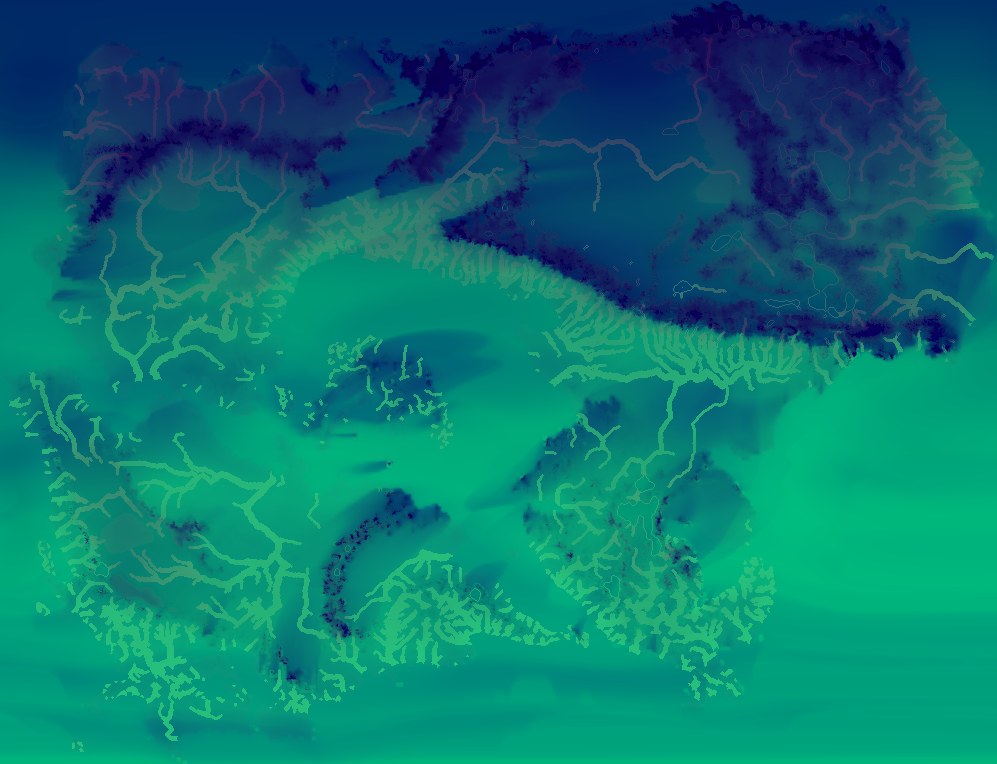
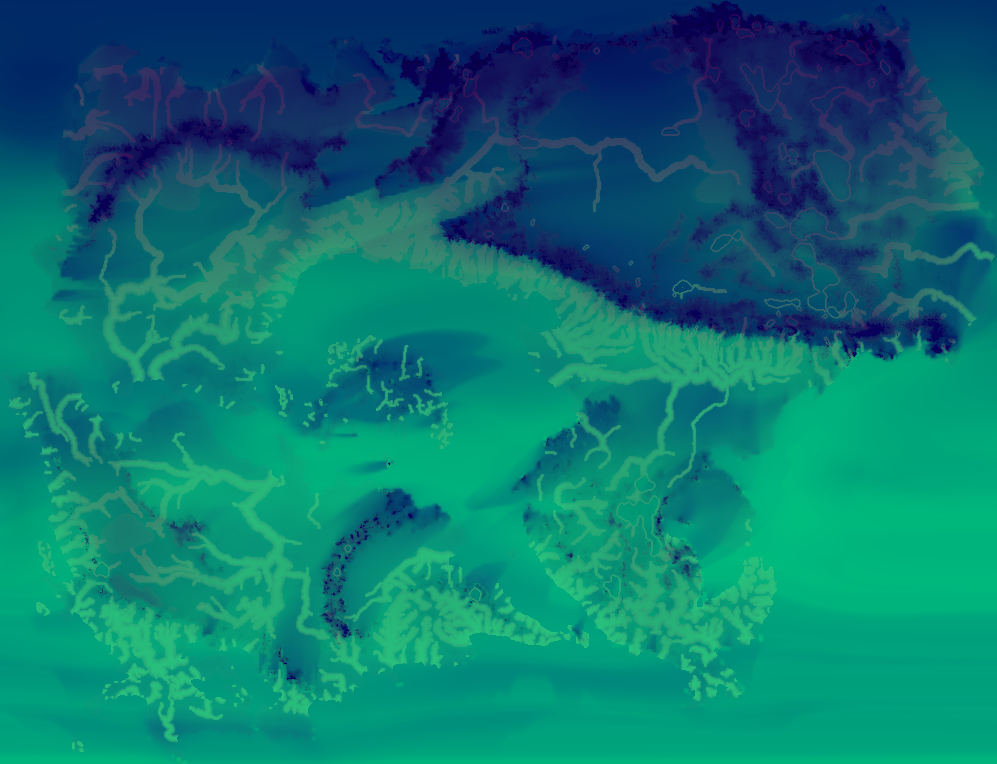
Yaşanabilirlik: nehir çevresi iki seçenekli (geniş yumuşak varsayılan, nehrin yanı)
Su erişimi ağırlığı debiye göre 2.5/5/8 hücrede kosinüsle söner (varsayılan)
ya da nehrin hemen yanında tam etkili (eski davranış). İki ayrı PNG ve veri
PNG'si, uygulamada radyo ayarı, legend payları seçeneğe göre. sw.js v12,
test seçeneğin renkleri gerçekten değiştirdiğini doğrular (31/31).

Claude-Session: https://claude.ai/code/session_01X56oZFTqgptLAFmNm82jib

diff --git a/app.js b/app.js
@@ -101,7 +101,7 @@ function bildir(msg, ms=3200){ const t=$("#bildirim"); t.textContent=msg; t.hidd
 
 const AYAR_ANAHTAR = "dunyam-ayar";
 const ayar = Object.assign({kabartma:true, kabartmaKaynak:"bir", piksel:false, izgara:true, bant:false,
-  dolZemin:"sst", parcacik:false, sicMod:"ort", deniz:true, su:true, suKol:"ana", araziMod:"yukseklik"},
+  dolZemin:"sst", parcacik:false, sicMod:"ort", deniz:true, su:true, suKol:"ana", araziMod:"yukseklik", yasamKiyi:"genis"},
   (()=>{ try{ return JSON.parse(localStorage.getItem(AYAR_ANAHTAR)) || {}; }catch(_){ return {}; } })());
 // Eylul 2026: birlesik kabartma varsayilan oldu. Eski surumde "editor"
 // kaydedilmis telefonlar bir kez birlesige gecer; sonra secim kullanicinin.
@@ -1061,21 +1061,24 @@ function baslat(J, resimler){
   const YJ = resimler.yasamJ, YS = YJ && resimler.yasam ? resimler.yasam : null, YV = resimler.yasamVeri;
   const ysCv = $("#yasam"), ysC = ysCv.getContext("2d");
   let YK = null;     // {tuval, veri (okuma tuvali)}
+  // nehir çevresi seçeneği: geniş ve yumuşak (varsayılan) ya da nehrin hemen yanı
+  const yasamRes = () => ayar.yasamKiyi === "dar" && resimler.yasamDar && resimler.yasamDarVeri ? [resimler.yasamDar, resimler.yasamDarVeri] : [YS, YV];
   function yasamKur(){
     if(YK || !YS) return YK;
-    const w = YS.naturalWidth, h = YS.naturalHeight, K = YJ.kesit, cv = document.createElement("canvas"); cv.width = w; cv.height = h;
-    const c = cv.getContext("2d"); c.drawImage(YS, 0, 0);
+    const [Y, V] = yasamRes();
+    const w = Y.naturalWidth, h = Y.naturalHeight, K = YJ.kesit, cv = document.createElement("canvas"); cv.width = w; cv.height = h;
+    const c = cv.getContext("2d"); c.drawImage(Y, 0, 0);
     const kab = ayar.kabartma ? (KAB[ayar.kabartmaKaynak] || KAB.bir || KAB.editor) : null;
     if(kab){
       const kx = w/(K[2]-K[0]), ky = h/(K[3]-K[1]);
       c.globalCompositeOperation = "multiply"; c.imageSmoothingEnabled = true; c.imageSmoothingQuality = "high";
       c.drawImage(kab, (B[0]-K[0])*kx, (K[3]-B[3])*ky, (B[2]-B[0])*kx, (B[3]-B[1])*ky);
       c.globalCompositeOperation = "lighter"; c.drawImage(cv, 0, 0);
-      c.globalCompositeOperation = "destination-in"; c.drawImage(YS, 0, 0);
+      c.globalCompositeOperation = "destination-in"; c.drawImage(Y, 0, 0);
       c.globalCompositeOperation = "source-over"; }
     let veri = null;
-    if(YV){ const v = document.createElement("canvas"); v.width = YV.naturalWidth; v.height = YV.naturalHeight;
-      veri = v.getContext("2d", {willReadFrequently:true}); veri.drawImage(YV, 0, 0); }
+    if(V){ const v = document.createElement("canvas"); v.width = V.naturalWidth; v.height = V.naturalHeight;
+      veri = v.getContext("2d", {willReadFrequently:true}); veri.drawImage(V, 0, 0); }
     return YK = {tuval: cv, veri};
   }
   const yasamModu = () => !!YS && katman === "arazi" && ayar.araziMod === "yasam";
@@ -1099,7 +1102,7 @@ function baslat(J, resimler){
   }
   function yasamSatiri(lon, lat){
     if(!yasamModu() || !yasamKur() || !YK.veri) return "";
-    const K = YJ.kesit, W2 = YV.naturalWidth, H2 = YV.naturalHeight;
+    const K = YJ.kesit, V = yasamRes()[1], W2 = V.naturalWidth, H2 = V.naturalHeight;
     const x = Math.floor((lon-K[0])/(K[2]-K[0])*W2), y = Math.floor((K[3]-lat)/(K[3]-K[1])*H2);
     if(x < 0 || y < 0 || x >= W2 || y >= H2) return "";
     const p = YK.veri.getImageData(x, y, 1, 1).data, c = YJ.siniflar[p[0] & 15]; if(!c) return "";
@@ -1403,8 +1406,12 @@ function baslat(J, resimler){
         `<span><i style="background:rgb(${b.renk.join(",")})"></i>${b.ad.replace(/ \(.*\)/, "")} <b>%${Math.round(b.pay*100)}</b></span>`).join("") + `</div>`;
       return; }
     if(katman==="arazi" && YS && ayar.araziMod==="yasam"){
-      el.innerHTML = araziSec + `<div class="bk-not">` + Object.entries(YJ.siniflar).filter(([, c]) => c.pay >= 0.005).map(([, c]) =>
-        `<span><i style="background:rgb(${c.renk.join(",")})"></i>${c.ad} <b>%${Math.round(c.pay*100)}</b></span>`).join("") + `</div>`;
+      const dar = ayar.yasamKiyi === "dar" && resimler.yasamDar, pk = dar ? "pay_dar" : "pay";
+      const kiyiSec = resimler.yasamDar ? `<div class="dol-ust"><div class="secim kucuk" role="radiogroup" aria-label="Nehir çevresi">`
+        + [["genis","Geniş, yumuşak"],["dar","Nehrin yanı"]].map(([k, t]) =>
+          `<button role="radio" data-yasamkiyi="${k}" aria-checked="${dar ? k==="dar" : k==="genis"}">${t}</button>`).join("") + `</div></div>` : "";
+      el.innerHTML = araziSec + kiyiSec + `<div class="bk-not">` + Object.entries(YJ.siniflar).filter(([, c]) => c[pk] >= 0.005).map(([, c]) =>
+        `<span><i style="background:rgb(${c.renk.join(",")})"></i>${c.ad} <b>%${Math.round(c[pk]*100)}</b></span>`).join("") + `</div>`;
       return; }
     if(katman==="arazi" && TP && ayar.araziMod==="toprak"){
       const liste = Object.entries(TPJ.topraklar).filter(([, t]) => t.pay >= 0.005).sort((a, b) => b[1].pay - a[1].pay);
@@ -1435,7 +1442,8 @@ function baslat(J, resimler){
   addEventListener("resize", () => etiketCakismasi());
 
   $("#aciklama").addEventListener("click", e => {
-    const z = e.target.closest("[data-zemin]"), p = e.target.closest("#parcacik-ac"), sm = e.target.closest("[data-sicmod]"), am = e.target.closest("[data-arazimod]");
+    const z = e.target.closest("[data-zemin]"), p = e.target.closest("#parcacik-ac"), sm = e.target.closest("[data-sicmod]"), am = e.target.closest("[data-arazimod]"), yk = e.target.closest("[data-yasamkiyi]");
+    if(yk){ ayar.yasamKiyi = yk.dataset.yasamkiyi; ayarYaz(); YK = null; katmanSec("arazi"); ciz(); }
     if(am){ ayar.araziMod = am.dataset.arazimod; ayarYaz(); katmanSec("arazi"); ciz(); }
     if(sm){ ayar.sicMod = sm.dataset.sicmod; ayarYaz(); katmanSec("sicaklik"); }
     if(z){ ayar.dolZemin = z.dataset.zemin; ayarYaz(); katmanSec("dolasim"); }
@@ -1785,7 +1793,7 @@ async function acilis(){
   let J, resimler;
   try {
     J = await veriCek();
-    const [doku, yukseklik, kabartma, kabartmaGri, kabartmaBir, dolasim, su, tekt, levha, bitkiJ, bitki, bitkiVeri, toprakJ, toprak, toprakVeri, yasamJ, yasam, yasamVeri] = await Promise.all([
+    const [doku, yukseklik, kabartma, kabartmaGri, kabartmaBir, dolasim, su, tekt, levha, bitkiJ, bitki, bitkiVeri, toprakJ, toprak, toprakVeri, yasamJ, yasam, yasamVeri, yasamDar, yasamDarVeri] = await Promise.all([
       ...["data/doku.png","data/yukseklik.png","data/kabartma.jpg"].map(resimYukle),
       resimYukle("data/kabartma_gri.jpg").catch(() => null),     // eski veride yok
       resimYukle("data/kabartma_bir.jpg").catch(() => null),
@@ -1806,8 +1814,10 @@ async function acilis(){
       // genel yaşanabilirlik de isteğe bağlı (yasam/yasam.py)
       fetch("data/yasam.json", {cache:"no-cache"}).then(r => r.ok ? r.json() : null).catch(() => null),
       resimYukle("data/yasam.png").catch(() => null),
-      resimYukle("data/yasam_veri.png").catch(() => null)]);
-    resimler = {doku, yukseklik, kabartma, kabartmaGri, kabartmaBir, dolasim, su, tekt, levha, bitkiJ, bitki, bitkiVeri, toprakJ, toprak, toprakVeri, yasamJ, yasam, yasamVeri};
+      resimYukle("data/yasam_veri.png").catch(() => null),
+      resimYukle("data/yasam_dar.png").catch(() => null),
+      resimYukle("data/yasam_dar_veri.png").catch(() => null)]);
+    resimler = {doku, yukseklik, kabartma, kabartmaGri, kabartmaBir, dolasim, su, tekt, levha, bitkiJ, bitki, bitkiVeri, toprakJ, toprak, toprakVeri, yasamJ, yasam, yasamVeri, yasamDar, yasamDarVeri};
   } catch(e){ $("#yukleniyor").innerHTML = `<span>Atlas yüklenemedi<br><small style="text-transform:none;letter-spacing:0">${e.message}. İlk açılış için internet bağlantısı gerekli; sonra çevrimdışı da açılır.</small></span>`; return; }
   try { const once = localStorage.getItem("veri-surum");
     if(once && once!==J.surum) setTimeout(()=>bildir("Yeni veri yüklendi · "+tarih(J.uretim)), 600);

diff --git a/test/uygulama_test.js b/test/uygulama_test.js
@@ -310,6 +310,17 @@ const OLC = () => {
       const kapali = await ysPiksel();
       denetle("genel yasanabilirlik: harita ciziliyor, kartta yasanabilirlik satiri, yukseklikte bos",
         acik > 50000 && kapali === 0 && /Yaşanabilirlik/.test(t), `acik ${acik}, kapali ${kapali} piksel; ${t.slice(0, 80)}`);
+      // nehir cevresi secenegi: dar secilince yeniden cizilir, genise donunce de
+      await p.evaluate(() => document.querySelector("[data-k=arazi]").click()); await bekle(250);
+      await p.evaluate(() => document.querySelector("[data-arazimod=yasam]").click()); await bekle(400);
+      const ysRenk = () => p.evaluate(() => { const c = document.querySelector("#yasam"), x = c.getContext("2d").getImageData(0, 0, c.width, c.height).data; let t = 0; for (let i = 0; i < x.length; i += 4) if (x[i+3] > 30) t += x[i] + 2*x[i+1] + 3*x[i+2]; return t; });
+      const gpx = await ysPiksel(), grenk = await ysRenk();
+      await p.evaluate(() => document.querySelector("[data-yasamkiyi=dar]").click()); await bekle(600);
+      const dpx = await ysPiksel(), drenk = await ysRenk(); const dsec = await p.evaluate(() => document.querySelector("[data-yasamkiyi=dar]").getAttribute("aria-checked"));
+      await p.evaluate(() => document.querySelector("[data-yasamkiyi=genis]").click()); await bekle(600);
+      const gsec = await p.evaluate(() => document.querySelector("[data-yasamkiyi=genis]").getAttribute("aria-checked"));
+      denetle("yasanabilirlik: nehir cevresi secenegi (genis/dar) cizimi ve secimi degistirir", gpx > 50000 && dpx > 50000 && drenk !== grenk && dsec === "true" && gsec === "true", `genis ${gpx}/${grenk}, dar ${dpx}/${drenk}, dar secili ${dsec}, genis secili ${gsec}`);
+      await p.evaluate(() => document.querySelector("[data-arazimod=yukseklik]").click()); await bekle(300);
       await p.evaluate(() => document.querySelector("[data-k=iklim]").click()); await bekle(250);
     }
     const kaynak = await p.evaluate(() => document.querySelectorAll("#kabartma-kaynak button").length);

diff --git a/sw.js b/sw.js
@@ -11,10 +11,10 @@
 
    AD'yi yalnizca KABUK listesi degistiginde artir. Kod ve veri guncellemesi
    icin gerekmez: ag-once zaten tazesini getirir. */
-const AD = 'dunyam-atlas-v11';   // v11: genel yaşanabilirlik katmanı
+const AD = 'dunyam-atlas-v12';   // v12: yaşanabilirlikte nehir çevresi seçeneği
 const KABUK = [
   './', 'index.html', 'app.js', 'style.css', 'manifest.webmanifest', 'data/atlas.json',
-  'data/doku.png', 'data/yukseklik.png', 'data/kabartma.jpg', 'data/kabartma_gri.jpg', 'data/kabartma_bir.jpg', 'data/dolasim.png', 'data/su.json', 'data/tektonik.json', 'data/levha.png', 'data/bitki.json', 'data/bitki.png', 'data/bitki_veri.png', 'data/toprak.json', 'data/toprak.png', 'data/toprak_veri.png', 'data/yasam.json', 'data/yasam.png', 'data/yasam_veri.png',
+  'data/doku.png', 'data/yukseklik.png', 'data/kabartma.jpg', 'data/kabartma_gri.jpg', 'data/kabartma_bir.jpg', 'data/dolasim.png', 'data/su.json', 'data/tektonik.json', 'data/levha.png', 'data/bitki.json', 'data/bitki.png', 'data/bitki_veri.png', 'data/toprak.json', 'data/toprak.png', 'data/toprak_veri.png', 'data/yasam.json', 'data/yasam.png', 'data/yasam_veri.png', 'data/yasam_dar.png', 'data/yasam_dar_veri.png',
   'icons/icon-192.png', 'icons/icon-512.png',
   'icons/icon-maskable-192.png', 'icons/icon-maskable-512.png', 'icons/apple-touch-icon.png',
 ];

diff --git a/yasam/yasam.py b/yasam/yasam.py
@@ -20,8 +20,9 @@ Nehir ve göl kıyısı: uygulamada çizilen nehirlerin kendisi (data/su.json, b
 kademeler, ortak kaydırma alanıyla kıvrılmış gerçek çizgi; ham ızgara yolu
 değil) ızgaraya işlenir, çevresinde debiye göre genişleyen bir koridor ve göl
 kıyısı yeraltı suyuna ve taşkına erişimlidir: su tavanı kalkar, buharlaşma
-olası buharlaşmaya (PE) çıkar (galeri ormanı, vaha etkisi). Koridor yarı
-genişliği: debi < 200 m³/s 1 hücre (~9 km), 200-2000 2 hücre, >= 2000 3 hücre.
+olası buharlaşmaya (PE) çıkar (galeri ormanı, vaha etkisi). İki seçenek (uygulamada
+ayar): "Geniş, yumuşak" (varsayılan; debiye göre 2.5 / 5 / 8 hücre, etki kosinüsle
+sönerek) ve "Dar" (nehrin hemen yanı, debiye göre 1 / 2 / 3 hücre, tam etki).
 Sıcaklık tavanı yine geçerli.
 
 Sınırlar (bilerek kaba): ışık, mevsim uzunluğu, toprak besini, eğim, yangın,
@@ -65,12 +66,13 @@ def npp(Tyil, AET):
     return np.minimum(nt, na), nt, na
 
 
-def nehir_koridoru(lat, lon, shape):
+def nehir_sinifi(lat, lon, shape):
     """data/su.json'daki çizilen nehirler (0.01° fark kodlu, tepe başına
-    10·log10 debi) ızgaraya işlenir; debi sınıfına göre 1/2/3 hücre koridor."""
+    10·log10 debi) ızgaraya işlenir; hücreden geçen en büyük debi sınıfı:
+    1 < 200 m³/s, 2 < 2000, 3 >= 2000 (0 = nehir yok)."""
     j = json.load(open(os.path.join(KOK, "data", "su.json"), encoding="utf-8"))
     dl, dn = lat[1] - lat[0], lon[1] - lon[0]
-    sinif = np.zeros(shape, np.uint8)             # hücreden geçen en büyük debi sınıfı (1..3)
+    sinif = np.zeros(shape, np.uint8)
     for n in j["nehirler"]:
         kod = np.asarray(n["p"], float).reshape(-1, 2)
         xy = np.cumsum(kod, axis=0) / 100.0
@@ -85,39 +87,54 @@ def nehir_koridoru(lat, lon, shape):
             k = np.round(((x0 + t * (x1 - x0)) - lon[0]) / dn).astype(int)
             ok = (r >= 0) & (r < shape[0]) & (k >= 0) & (k < shape[1])
             sinif[r[ok], k[ok]] = np.maximum(sinif[r[ok], k[ok]], c)
-    out = np.zeros(shape, bool)
+    return sinif
+
+
+# koridor yarıçapı (hücre, ~9.7 km): dar = nehrin hemen yanı, tam etki;
+# geniş = debiye göre daha büyük alan, etki kosinüsle yumuşakça söner
+DAR_R = {1: 1, 2: 2, 3: 3}
+GENIS_R = {1: 2.5, 2: 5, 3: 8}
+GOL_DAR, GOL_GENIS = 1, 3
+
+
+def su_agirligi(sinif, gol, genis):
+    """0..1 su erişimi ağırlığı: nehir ve göl kıyısına uzaklığa göre."""
+    R = GENIS_R if genis else DAR_R
+    w = np.zeros(sinif.shape, np.float32)
     for c in (1, 2, 3):
-        out |= ndimage.distance_transform_edt(~(sinif >= c)) <= c
-    return out
+        dist = ndimage.distance_transform_edt(~(sinif >= c))
+        w = np.maximum(w, _profil(dist, R[c], genis))
+    dg = ndimage.distance_transform_edt(~gol)
+    return np.maximum(w, _profil(dg, GOL_GENIS if genis else GOL_DAR, genis))
 
 
-def main():
-    d = akim.hesapla(os.path.join(KOK, "buzul", "_iklim_bugun025.npz"))
-    z, lat, lon = d["z"], d["lat"], d["lon"]
-    su = np.load(os.path.join(KOK, "su", "_su.npz"))
-    gol = np.isfinite(su["sev"])
-    kara = (z >= 0) & ~gol
-    T = d["Tay"].mean(0)
-    nehir = nehir_koridoru(lat, lon, kara.shape) & kara
-    kiyi = ndimage.binary_dilation(gol, iterations=1) & ~gol
-    sulak = (nehir | kiyi) & kara
-    aet = np.where(sulak, np.maximum(d["AET"], d["PE"]), d["AET"])
+def _profil(dist, r, genis):
+    if not genis:
+        return (dist <= r).astype(np.float32)
+    return np.where(dist < r, 0.5 * (1 + np.cos(np.pi * dist / r)), 0).astype(np.float32)
+
+
+def varyant(ad, genis, d, T, sinif, gol, kara, buzul, lat, kutu):
+    """Bir nehir çevresi varyantını hesaplar; ad: '' (geniş, varsayılan) ya da '_dar'."""
+    w = su_agirligi(sinif, gol, genis) * kara
+    # su erişimi ağırlığı kadar AET olası buharlaşmaya (PE) yaklaşır
+    aet = d["AET"] + w * np.maximum(d["PE"] - d["AET"], 0)
     n, nt, na = npp(T, aet)
     sinir = (nt < na).astype(np.uint8)          # 1 = sıcaklık sınırlıyor, 0 = su
-    k = np.digitize(n, ESIKLER).astype(np.uint8)
-    k = np.clip(k, 1, 7)
-    k[d["buzul"]] = 8
+    k = np.clip(np.digitize(n, ESIKLER), 1, 7).astype(np.uint8)
+    k[buzul] = 8
     k[~kara] = 0
     wgt = np.cos(np.radians(lat))[:, None] * kara
     pay = {c: float(wgt[k == c].sum() / wgt.sum()) for c in SINIF}
     ort = float((n * wgt).sum() / wgt.sum())
-    for c, (ad, *_r) in SINIF.items():
-        print("%d %-16s %%%5.1f" % (c, ad, 100 * pay[c]))
-    print("nehir/göl kıyısı: kara alanının %%%.1f, ortalama NPP artışı %.0f g/m²/yıl" % (
-        100 * float((sulak * wgt).sum() / wgt.sum()), float(((n - npp(T, d["AET"])[0]) * sulak * wgt).sum() / (sulak * wgt).sum())))
-    print("kara ortalaması %.0f g/m²/yıl; sıcaklık sınırlı pay %%%.0f" % (ort, 100 * float(((sinir == 1) * wgt).sum() / wgt.sum())))
-    ii, jj = np.where(kara)
-    i0, i1, j0, j1 = ii.min(), ii.max() + 1, jj.min(), jj.max() + 1
+    sulak = (w >= 0.25) & kara
+    print("== nehir çevresi:", "geniş, yumuşak" if genis else "dar")
+    for c, (a_, *_r) in SINIF.items():
+        print("%d %-16s %%%5.1f" % (c, a_, 100 * pay[c]))
+    print("su erişimli (w >= 0.25): kara alanının %%%.1f, ortalama NPP artışı %.0f g/m²/yıl; kara ortalaması %.0f" % (
+        100 * float((sulak * wgt).sum() / wgt.sum()),
+        float(((n - npp(T, d["AET"])[0]) * (w > 0) * wgt).sum() / ((w > 0) * wgt).sum()), ort))
+    i0, i1, j0, j1 = kutu
     kc = k[i0:i1, j0:j1]
     F = 2
     en = None; secim = None
@@ -129,7 +146,7 @@ def main():
             en = g; secim = np.full(g.shape, c, np.uint8)
         else:
             m = g > en; en[m] = g[m]; secim[m] = c
-    zc = ndimage.zoom(z[i0:i1, j0:j1].astype(np.float32), F, order=1)
+    zc = ndimage.zoom(d["z"][i0:i1, j0:j1].astype(np.float32), F, order=1)
     gc = ndimage.zoom(gol[i0:i1, j0:j1].astype(np.float32), F, order=1)
     secim[(zc < 0) | (gc >= 0.5)] = 0
     im = Image.fromarray(secim, "P")
@@ -137,20 +154,39 @@ def main():
     for c, (_a, _n, _o, r, _e) in SINIF.items():
         pal[3 * c:3 * c + 3] = list(r)
     im.putpalette(pal)
-    im.save(os.path.join(KOK, "data", "yasam.png"), optimize=True, transparency=0)
-    dl, dn = lat[1] - lat[0], lon[1] - lon[0]
-    kesit = [float(lon[j0] - dn / 2), float(lat[i1 - 1] + dl / 2), float(lon[j1 - 1] + dn / 2), float(lat[i0] - dl / 2)]
-    # kart: R = sınıf + 16 * sınırlayıcı (1 sıcaklık) + 32 * nehir/göl kıyısı, G = NPP / 12, B = yıllık sıcaklık + 100
+    im.save(os.path.join(KOK, "data", "yasam%s.png" % ad), optimize=True, transparency=0)
+    # kart: R = sınıf + 16 * sınırlayıcı (1 sıcaklık) + 32 * nehir/göl kıyısı (w >= 0.25), G = NPP / 12, B = yıllık sıcaklık + 100
     r = kc + 16 * sinir[i0:i1, j0:j1] + 32 * sulak[i0:i1, j0:j1]
     g_ = np.clip(np.round(n[i0:i1, j0:j1] / 12), 0, 255)
     b_ = np.clip(np.round(T[i0:i1, j0:j1] + 100), 0, 255)
-    Image.fromarray(np.stack([r, g_, b_], -1).astype(np.uint8), "RGB").save(os.path.join(KOK, "data", "yasam_veri.png"), optimize=True)
+    Image.fromarray(np.stack([r, g_, b_], -1).astype(np.uint8), "RGB").save(os.path.join(KOK, "data", "yasam%s_veri.png" % ad), optimize=True)
+    return pay, ort, secim.shape
+
+
+def main():
+    d = akim.hesapla(os.path.join(KOK, "buzul", "_iklim_bugun025.npz"))
+    z, lat, lon = d["z"], d["lat"], d["lon"]
+    su = np.load(os.path.join(KOK, "su", "_su.npz"))
+    gol = np.isfinite(su["sev"])
+    kara = (z >= 0) & ~gol
+    T = d["Tay"].mean(0)
+    sinif = nehir_sinifi(lat, lon, kara.shape)
+    ii, jj = np.where(kara)
+    kutu = (ii.min(), ii.max() + 1, jj.min(), jj.max() + 1)
+    i0, i1, j0, j1 = kutu
+    pay, ort, sek = varyant("", True, d, T, sinif, gol, kara, d["buzul"], lat, kutu)
+    pay_d, ort_d, _ = varyant("_dar", False, d, T, sinif, gol, kara, d["buzul"], lat, kutu)
+    dl, dn = lat[1] - lat[0], lon[1] - lon[0]
+    kesit = [float(lon[j0] - dn / 2), float(lat[i1 - 1] + dl / 2), float(lon[j1 - 1] + dn / 2), float(lat[i0] - dl / 2)]
     veri = dict(ne="Dünyam genel yaşanabilirlik = Miami/Lieth net birincil üretim (yasam/yasam.py); yöntem YASAM.md",
-                kesit=kesit, ortalama=round(ort),
-                siniflar={str(c): dict(ad=a, ne=nn, ornek=o, renk=list(rr), alt=e, pay=round(pay[c], 4)) for c, (a, nn, o, rr, e) in SINIF.items()})
+                kesit=kesit, ortalama=round(ort), ortalama_dar=round(ort_d),
+                kodlar="yasam.png (geniş, yumuşak nehir çevresi, varsayılan) ve yasam_dar.png (nehrin hemen yanı); yasam*_veri.png: R = sınıf + 16 * sıcaklık sınırlı + 32 * su erişimli, G = NPP/12, B = yıllık sıcaklık + 100",
+                siniflar={str(c): dict(ad=a, ne=nn, ornek=o, renk=list(rr), alt=e, pay=round(pay[c], 4), pay_dar=round(pay_d[c], 4))
+                          for c, (a, nn, o, rr, e) in SINIF.items()})
     with open(os.path.join(KOK, "data", "yasam.json"), "w", encoding="utf-8") as fh:
         json.dump(veri, fh, ensure_ascii=False, indent=1)
-    print("yasam.png %dx%d %.0f KB" % (secim.shape[1], secim.shape[0], os.path.getsize(os.path.join(KOK, "data", "yasam.png")) / 1024))
+    print("yasam.png %dx%d %.0f KB, yasam_dar.png %.0f KB" % (sek[1], sek[0], os.path.getsize(os.path.join(KOK, "data", "yasam.png")) / 1024,
+                                                           os.path.getsize(os.path.join(KOK, "data", "yasam_dar.png")) / 1024))
 
 
 if __name__ == "__main__":

diff --git a/CLAUDE.md b/CLAUDE.md
@@ -41,7 +41,7 @@ Kurgusal bir gezegenin iklim atlası. İki parçası var:
   hata: gündüz-gece farkı 1.9, tepe 1.7, dip 1.35 °C. Gündüz-gece farkı
   √(gün/24) ile ölçeklenir (Dünyam 15 saat: %21 küçük). Kalibrasyon 25-48°K;
   tropikte ve çok yüksekte kaba. Sıcaklık sekmesinde Ortalama/Gündüz/Gece/
-  Tepe/Dip seçimi, kartta klimagram bandı ve satırı. Denize dokununca (her sekmede) deniz kartı: su sıcaklığı, aylık rüzgâr yönü ve Beaufort şeridi, en sert/sakin ay, deniz buzu ayları, tropikal fırtına koşulu (su ≥ 26,5 °C, enlem 5-30°; motor siklon çözmez, yalnız eşik), yakındaki akıntı (`dunyam.currents.json`'dan; "mevsimsel genlik" girdisi akıntı sayılmaz), yağış, en yakın karanın yönü ve sınıfı. Derinlik, gelgit, dalga verisi yok; deniz dokusundaki sığ/derin tonu kıyıya uzaklıktır, batimetri değil. Göller ve nehirler her sekmede kaplama (`data/su.json`, `su/` üretir; ayarlarda aç/kapa, "Ana kollar / Bütün kollar"): uzaktan yalnız 1. kademe büyük ana kollar, yakınlaştıkça 2-4. kademe yumuşakça belirir; göle ya da nehre dokununca kartta Göl/Nehir satırı. Kaydırırken su tuvali yeniden boyanmaz, CSS ile kayar. Su, shader'daki `deniz()` renkleriyle (sığ ton, kıyı köpüğü, kıyı ışıltısı) çizilir; ayrı parlak mavi katman haritaya yapıştırma gibi duruyordu. Dolaşım sekmesinde su çizilmez. Arazi sekmesinde "Yükseklik / Levhalar" seçimi: Levhalar'da levha renkleri, adları ve hızları, sınırlar (yakınsak kırmızı ve dişli, ıraksak yeşil, dönüşüm turuncu) ve volkan kuşakları (`data/tektonik.json`, `data/levha.png`; `tektonik/uygulama.py` üretir); dokununca kartta Levha/Sınır/Volkan satırı. Arazi'de üçüncü seçim "Bitki örtüsü": iklimden doğal biyom haritası (`data/bitki.png`, `bitki_veri.png`, `bitki.json`; `bitki/bitki.py`, BIOME1 eşikleri, `BITKI.md`), kabartmayla gölgeli; kartta biyom ve nedeni. Dördüncü seçim "Toprak": bölgesel (zonal) WRB toprak türleri, biyom + eğim + volkan kuşağı + kapalı havza + nehir taşkın ovasından (`data/toprak.png`, `toprak_veri.png`, `toprak.json`; `toprak/toprak.py`, `TOPRAK.md`), aynı yoldan kabartmayla gölgeli; kartta toprak türü ve Dünya'daki örneği. Beşinci seçim "Yaşanabilirlik": insana özgü olmayan genel koşullar, Miami/Lieth net birincil üretim (yıllık ortalama sıcaklık ve gerçek buharlaşmadan, küçük olan tavan; `data/yasam.png`, `yasam_veri.png`, `yasam.json`; `yasam/yasam.py`, `YASAM.md`); kartta sınıf, g/m²/yıl, sınırlayan etken (sıcaklık ya da su). Veriyi `data/atlas.json`'dan,
+  Tepe/Dip seçimi, kartta klimagram bandı ve satırı. Denize dokununca (her sekmede) deniz kartı: su sıcaklığı, aylık rüzgâr yönü ve Beaufort şeridi, en sert/sakin ay, deniz buzu ayları, tropikal fırtına koşulu (su ≥ 26,5 °C, enlem 5-30°; motor siklon çözmez, yalnız eşik), yakındaki akıntı (`dunyam.currents.json`'dan; "mevsimsel genlik" girdisi akıntı sayılmaz), yağış, en yakın karanın yönü ve sınıfı. Derinlik, gelgit, dalga verisi yok; deniz dokusundaki sığ/derin tonu kıyıya uzaklıktır, batimetri değil. Göller ve nehirler her sekmede kaplama (`data/su.json`, `su/` üretir; ayarlarda aç/kapa, "Ana kollar / Bütün kollar"): uzaktan yalnız 1. kademe büyük ana kollar, yakınlaştıkça 2-4. kademe yumuşakça belirir; göle ya da nehre dokununca kartta Göl/Nehir satırı. Kaydırırken su tuvali yeniden boyanmaz, CSS ile kayar. Su, shader'daki `deniz()` renkleriyle (sığ ton, kıyı köpüğü, kıyı ışıltısı) çizilir; ayrı parlak mavi katman haritaya yapıştırma gibi duruyordu. Dolaşım sekmesinde su çizilmez. Arazi sekmesinde "Yükseklik / Levhalar" seçimi: Levhalar'da levha renkleri, adları ve hızları, sınırlar (yakınsak kırmızı ve dişli, ıraksak yeşil, dönüşüm turuncu) ve volkan kuşakları (`data/tektonik.json`, `data/levha.png`; `tektonik/uygulama.py` üretir); dokununca kartta Levha/Sınır/Volkan satırı. Arazi'de üçüncü seçim "Bitki örtüsü": iklimden doğal biyom haritası (`data/bitki.png`, `bitki_veri.png`, `bitki.json`; `bitki/bitki.py`, BIOME1 eşikleri, `BITKI.md`), kabartmayla gölgeli; kartta biyom ve nedeni. Dördüncü seçim "Toprak": bölgesel (zonal) WRB toprak türleri, biyom + eğim + volkan kuşağı + kapalı havza + nehir taşkın ovasından (`data/toprak.png`, `toprak_veri.png`, `toprak.json`; `toprak/toprak.py`, `TOPRAK.md`), aynı yoldan kabartmayla gölgeli; kartta toprak türü ve Dünya'daki örneği. Beşinci seçim "Yaşanabilirlik": insana özgü olmayan genel koşullar, Miami/Lieth net birincil üretim (yıllık ortalama sıcaklık ve gerçek buharlaşmadan, küçük olan tavan; `data/yasam.png`, `yasam_veri.png`, `yasam.json`; `yasam/yasam.py`, `YASAM.md`); kartta sınıf, g/m²/yıl, sınırlayan etken (sıcaklık ya da su). Nehir çevresi iki seçenekli ayar: "Geniş, yumuşak" (varsayılan, debiye göre 2.5-8 hücre kosinüsle söner) ve "Nehrin yanı"; ikisi için ayrı PNG (`yasam.png`, `yasam_dar.png`, `*_veri.png`). Veriyi `data/atlas.json`'dan,
   harita dokularını `data/doku.png`, `yukseklik.png`, `kabartma*.jpg`,
   `dolasim.png`'den okur.
 - **Üretici** (`uret.py` + `motor/` + `dunya/`) — iklim motorunun ve dünya

diff --git a/YASAM.md b/YASAM.md
@@ -30,23 +30,32 @@ bölünerek okunur hâle getirildi.
 
 ## Sonuç (kara alanına göre, 28 Eylül)
 
-Çok kıt %0.0, çok düşük %2.4, düşük %12.0, orta %17.6, yüksek %14.2, çok yüksek
-%23.5, uç düzey %28.5, buz %1.9. Kara ortalaması 1303 g/m²/yıl; alanın %30'unda
-sıcaklık, geri kalanında su sınırlayıcı.
+Varsayılan (geniş, yumuşak): çok kıt %0.0, çok düşük %2.4, düşük %12.0, orta %17.3,
+yüksek %13.8, çok yüksek %22.8, uç düzey %29.7, buz %1.9; kara ortalaması
+1310 g/m²/yıl. Dar seçenekte uç düzey %28.5, kara ortalaması 1303.
 
-## Nehir ve göl kıyısı (28 Eylül ve 1 Ekim, sahibi: "nehir çevreleri falan ayırdın mı", sonra "tam alamamışsın")
+## Nehir ve göl kıyısı (28 Eylül ve 1 Ekim, sahibi: "nehir çevreleri falan ayırdın mı", "tam alamamışsın", sonra "direkt yanları yapmayalım, iki seçenekli, varsayılan geniş ve yumuşak")
 
 İlk sürümde yoktu. İkinci sürüm ham ızgaradaki q >= 50 hücrelerinin 1 hücre
 çevresini aldı ama yanlıştı: uygulamada çizilen nehir ham ızgara yolu değil,
 ortak kaydırma alanıyla kıvrılmış çizgi (`SU.md`), üstelik küçük kollar (kademe
 2-4, 1385 nehirden 1341'i) hiç yoktu. Şimdi `data/su.json`'daki çizilen çizgilerin
-kendisi ızgaraya işleniyor (`nehir_koridoru`): bütün kademeler, çevresinde debiye
-göre koridor (< 200 m³/s 1 hücre ~9 km, 200-2000 2 hücre, >= 2000 3 hücre) ve göl
-kıyısı. Bu bölgelerde AET olası buharlaşmaya (PE) çıkar, yani su tavanı kalkar,
-sıcaklık tavanı kalır. Karanın %18.4'ü koridorda, ortalama artış 254 g/m²/yıl.
-Kartta "nehir ya da göl kıyısı: su erişimi var" satırı çıkar (R'nin 32 bitinde).
-Görsel doğrulama: koridor ile çizilen çizgiler üst üste çizildi, hizalı.
-Gerçek taşkın ovası genişliği nehirden nehire çok değişir; sınıf genişlikleri
+kendisi ızgaraya işleniyor (`nehir_sinifi`: 1 < 200 m³/s, 2 < 2000, 3 >= 2000) ve
+iki seçenek üretiliyor; uygulamada Yaşanabilirlik görünümünde "Nehir çevresi"
+ayarı:
+
+| seçenek | yarıçap (hücre ~9.7 km) | etki | su erişimli alan | kara ort. |
+|---|---|---|---|---|
+| Geniş, yumuşak (varsayılan, `yasam.png`) | 2.5 / 5 / 8, göl 3 | kosinüsle söner | %26.3 | 1310 |
+| Nehrin yanı (`yasam_dar.png`) | 1 / 2 / 3, göl 1 | tam etki, keskin | %18.4 | 1303 |
+
+Etki ağırlığı w (0..1) kadar AET olası buharlaşmaya (PE) yaklaşır: AET + w (PE − AET).
+Yani nehre en yakın yerde su tavanı tamamen kalkar, uzaklaştıkça sıcaklık ve gerçek
+buharlaşmanın verdiği tavana yumuşakça döner (galeri ormanı, vaha etkisi; sıcaklık
+tavanı her zaman geçerli). Kartta w >= 0.25 olan yerde "nehir ya da göl kıyısı: su
+erişimi var" satırı çıkar (R'nin 32 bitinde). Legend payları seçeneğe göre
+(`pay`, `pay_dar`). Görsel doğrulama: koridor ile çizilen çizgiler üst üste
+çizildi, hizalı. Gerçek taşkın ovası genişliği nehirden nehire çok değişir; yarıçaplar
 kabaca ölçüdür. `su.json` yeniden üretilirse bu betik de koşulmalı.
 
 ## Sınırlar (bilerek kaba)
